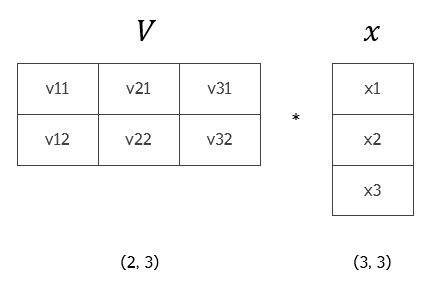
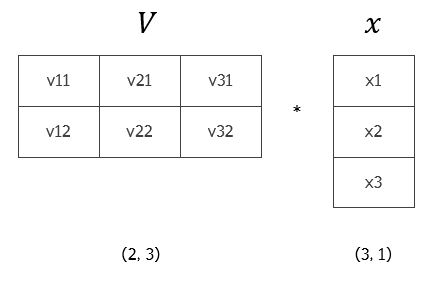
minor fix

diff --git a/_posts/2019-12-21-FM.md b/_posts/2019-12-21-FM.md
@@ -183,17 +183,17 @@ class FM(tf.keras.Model):
 
 모델 자체는 아주 복잡할 것은 없다. `linear terms`와 `interactions`라고 정의한 부분이 아래 수식의 밑줄 친 부분에 해당한다.  
 
-<center><img src="/public/img/Machine_Learning/2019-12-21-FM/07.JPG" width="100%"></center>  
+<center><img src="/public/img/Machine_Learning/2019-12-21-FM/07.JPG" width="80%"></center>  
 
 `interactions` 부분이 아주 중요한데, 이 부분을 어떻게 구현하느냐가 속도의 차이를 만들어 낼 수 있기 때문이다. 논문에서는 아래와 같이 이 상호작용 항을 재표현할 수 있다고 하였다.  
 
-<center><img src="/public/img/Machine_Learning/2019-12-21-FM/08.JPG" width="80%"></center>  
+<center><img src="/public/img/Machine_Learning/2019-12-21-FM/08.JPG" width="60%"></center>  
 
 위 `interactions` 부분은 위 식을 코드로 표현한 것인데, $\sum$ 항을 벡터화 하여 구현하였다.  
 
-설명을 위해, (p=3, k=2) shape을 가진 $V$ 행렬과 (p=3, 1)의 shape을 가진 $x$ 벡터가 있다고 하자. 사실 $(\sum_{i=1}^n v_{i,f } x_i)^2$ 부분을 계산하면 $V^T x$의 모든 원소를 더한 것과 동일하다.  
+설명을 위해, (k=2, p=3) shape을 가진 $V$ 행렬과 (p=3, 1)의 shape을 가진 $x$ 벡터가 있다고 하자. 사실 $(\sum_{i=1}^n v_{i,f } x_i)^2$ 부분을 계산하면 $V^T x$의 모든 원소를 더한 것과 동일하다.  
 
-<center><img src="/public/img/Machine_Learning/2019-12-21-FM/09.JPG" width="80%"></center>  
+<center><img src="/public/img/Machine_Learning/2019-12-21-FM/09.JPG" width="60%"></center>  
 
 위 그림의 결과는 $(v_{11}x_1 + v_{21}x_2 + v_{31}x_3)^2 + (v_{12}x_1 + v_{22}x_2 + v_{32}x_3)^2$와 동일할 것이다. 식의 나머지 부분도 같은 방법으로 생각하면 위와 같은 코드로 표현할 수 있을 것이다.  
 
